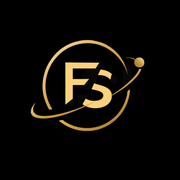
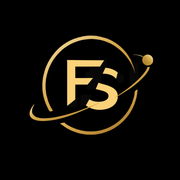
feat: update README and site.json for asset tuning and focus adjustments
Revised README.md to reflect changes in asset tuning instructions, including the addition of the FS logo. Updated site.json with new focus properties for profile, square, and logo images to enhance visual presentation. Added new favicon assets for improved branding consistency across platforms.

Changed region(s): [[0.1389, 0.1944, 0.8611, 0.75]]

diff --git a/README.md b/README.md
@@ -72,7 +72,7 @@ docs/                  # Design / rebuild plans (internal)
 
 **Edit portfolio copy** in `data/content/*.json` — not hard-coded components where content lives in JSON.
 
-- **Tune portraits:** open `/tune-photo` (not linked in the nav). Drag the **site circle** and **Google square** separately, copy both JSON lines into `data/content/site.json`, then `npm run gen:portrait-square`.
+- **Tune assets:** open `/tune-photo` (not linked). Drag **site circle**, **Google square**, and **FS logo** separately, copy all three JSON lines into `data/content/site.json`, then `npm run gen:portrait-square` and `npm run gen:favicon`.
 
 ```bash
 npm run gen:favicon
